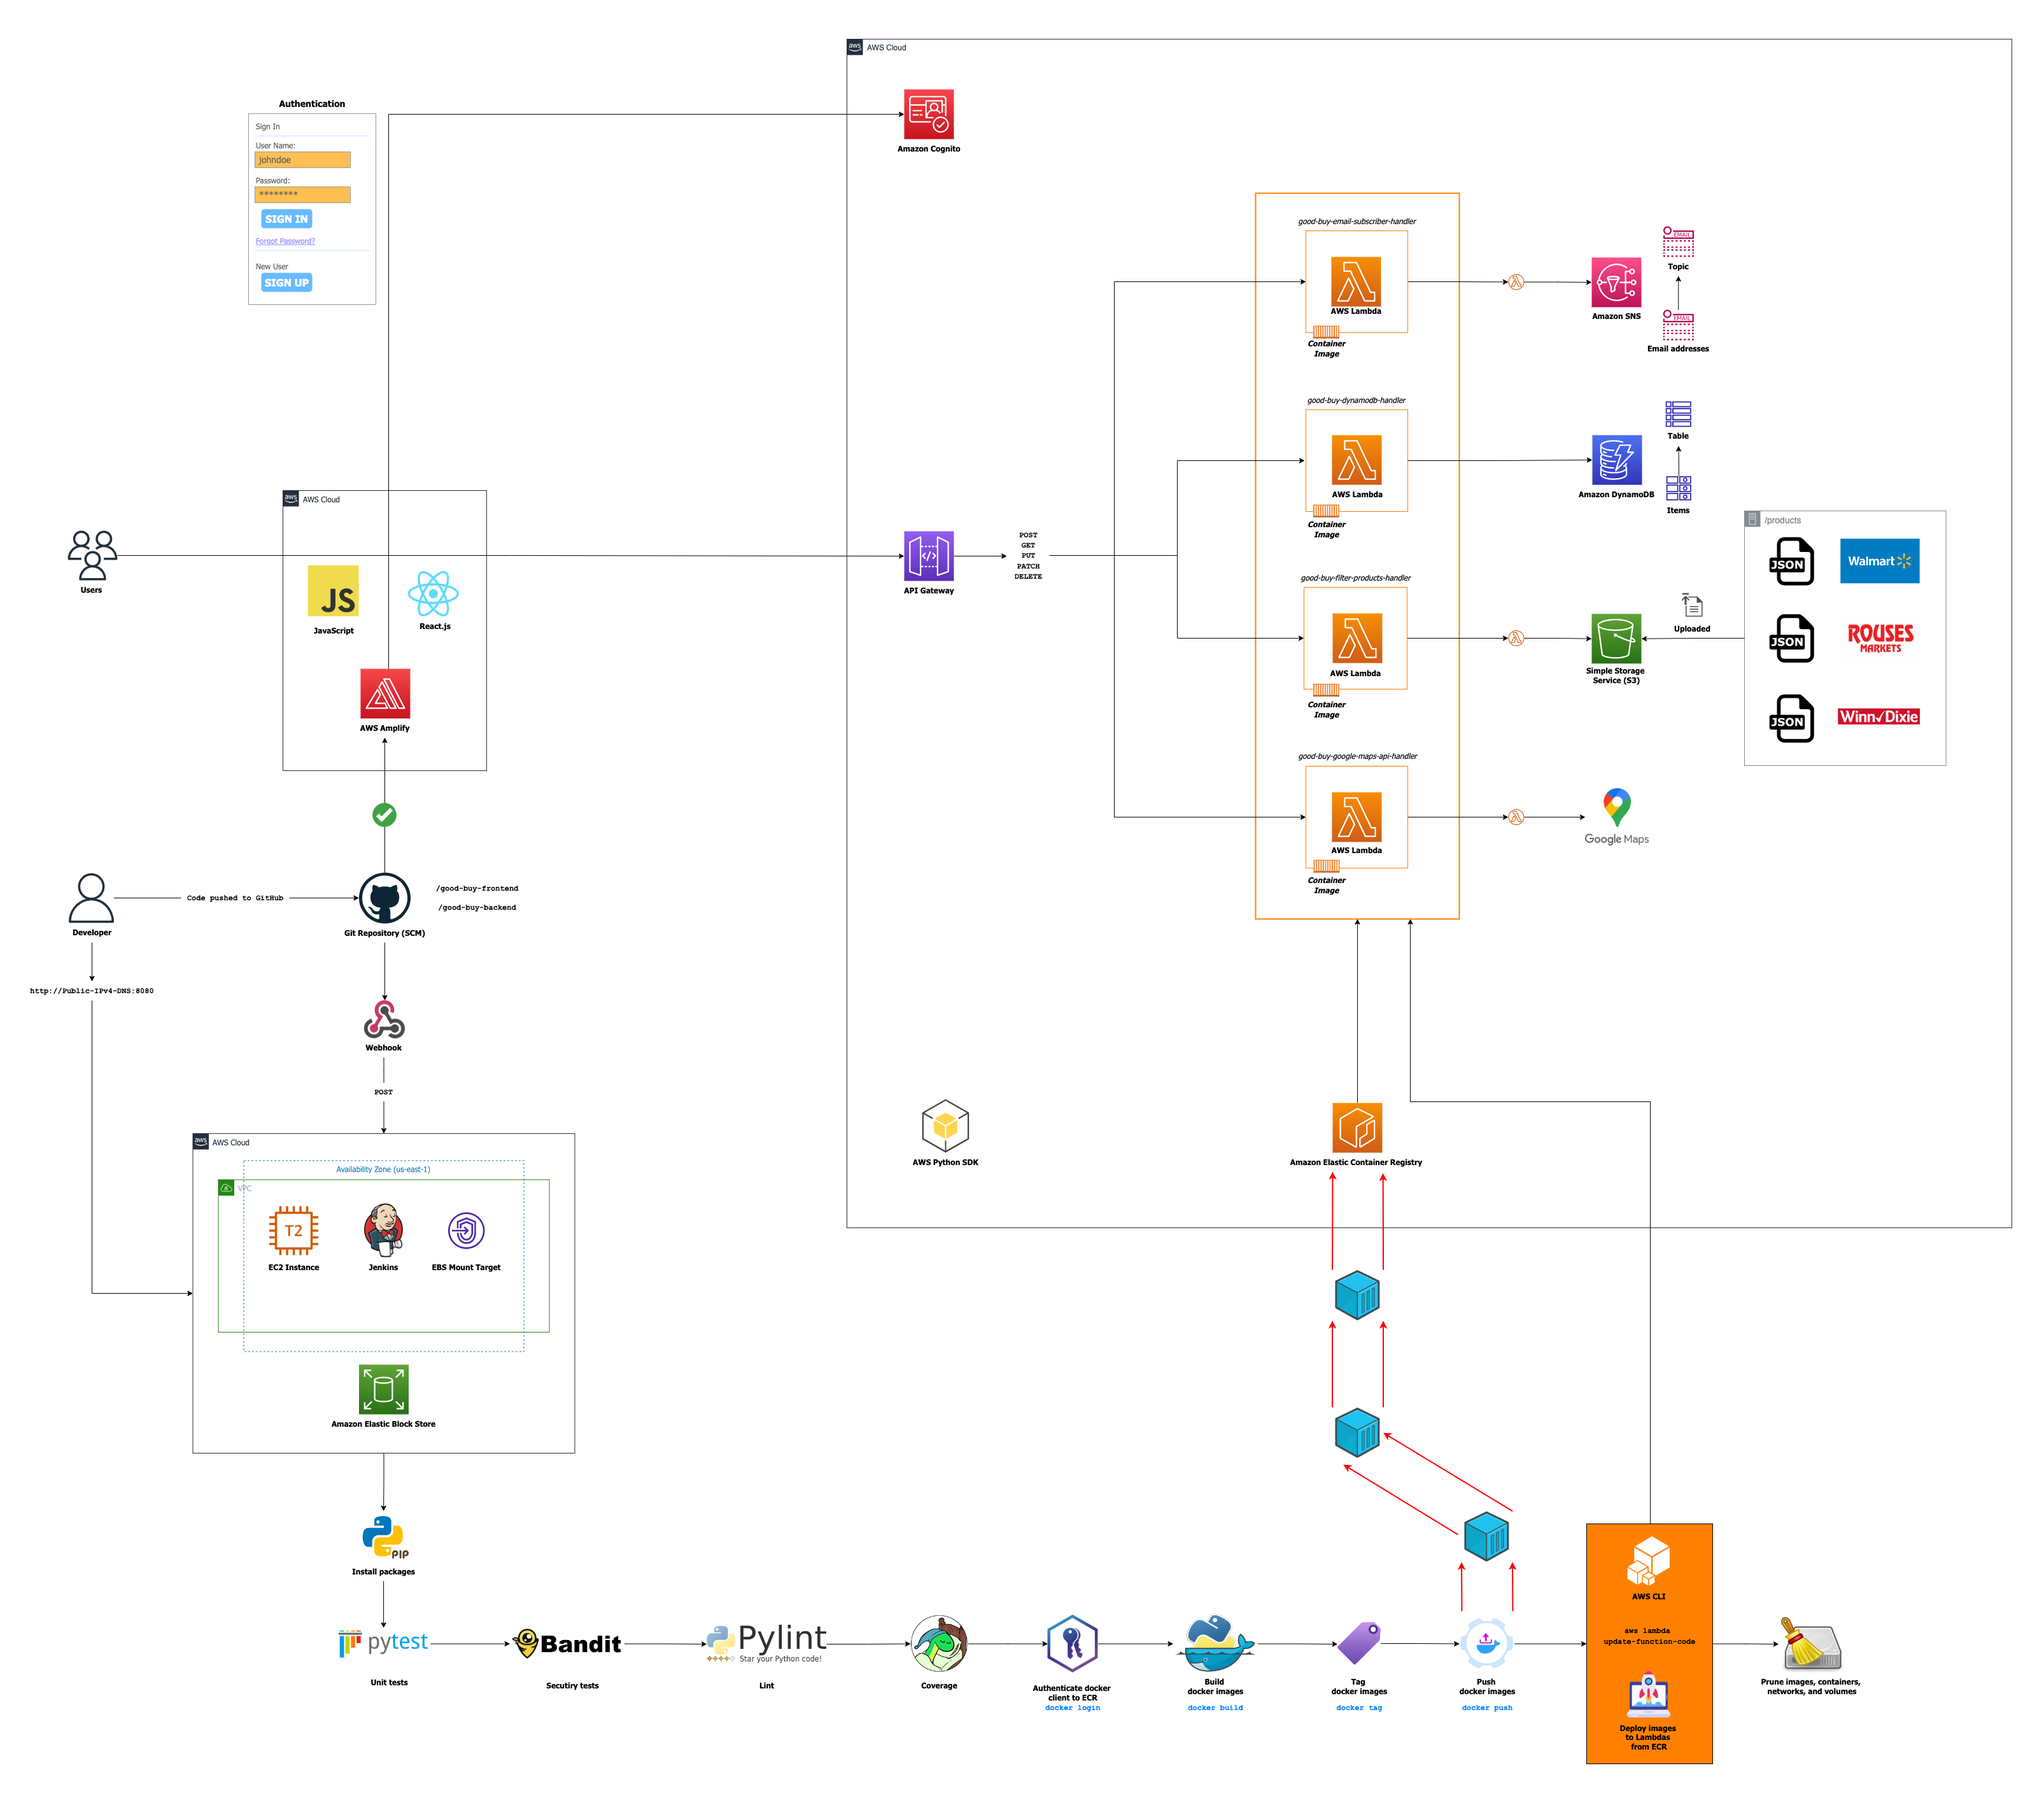
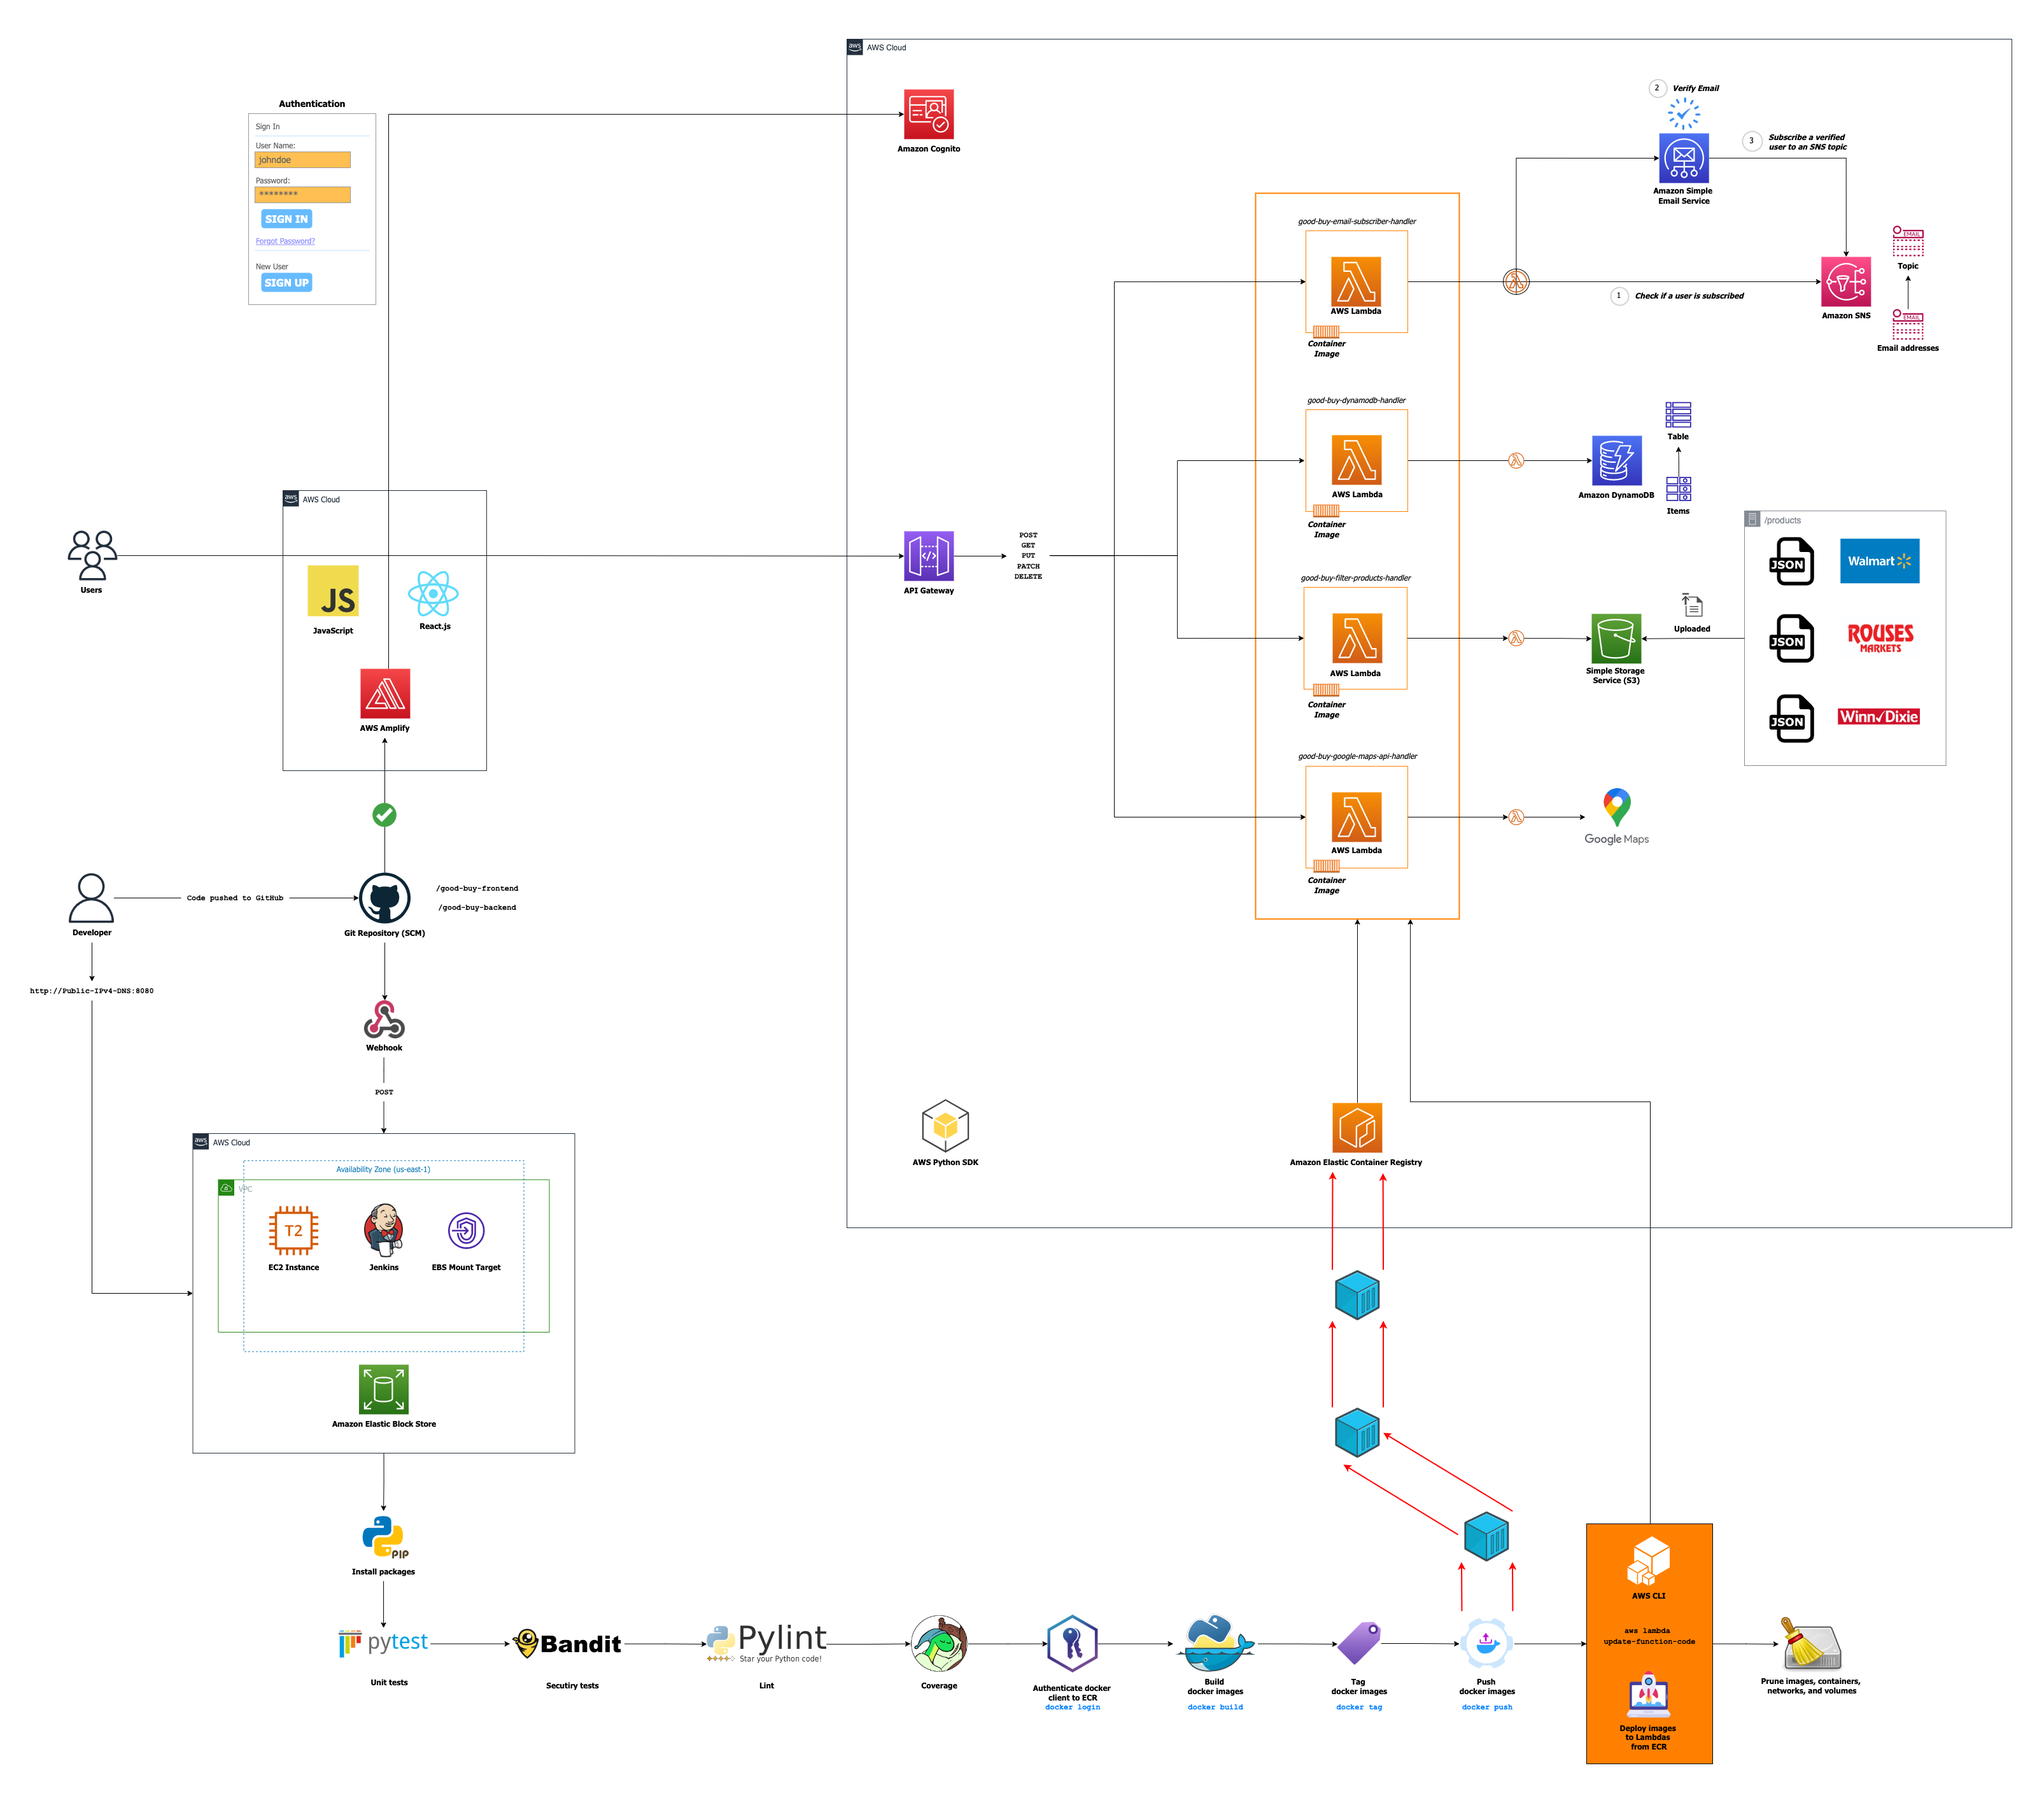
The application solution architecture has been updated.

diff --git a/README.md b/README.md
@@ -7,7 +7,7 @@ GoodBuy will not only help shoppers compare prices across brands, but also help 
 whenever they need to shop!
 
 ### Solution Architecture
-![Good-Buy-Solution-Architecture](https://user-images.githubusercontent.com/64171964/234468744-374d1759-76d4-4db3-a288-142aadd32b1e.png)
+![Good-Buy-Solution-Architecture](https://user-images.githubusercontent.com/64171964/235519703-6c66c292-3872-48f1-9668-3985b8c54fc5.png)
 
 ### Jenkins Pipeline
 ![Screenshot 2023-04-25 at 23 06 39](https://user-images.githubusercontent.com/64171964/234467480-d926705c-077e-4cbe-ae94-889d16dc37c1.png)
